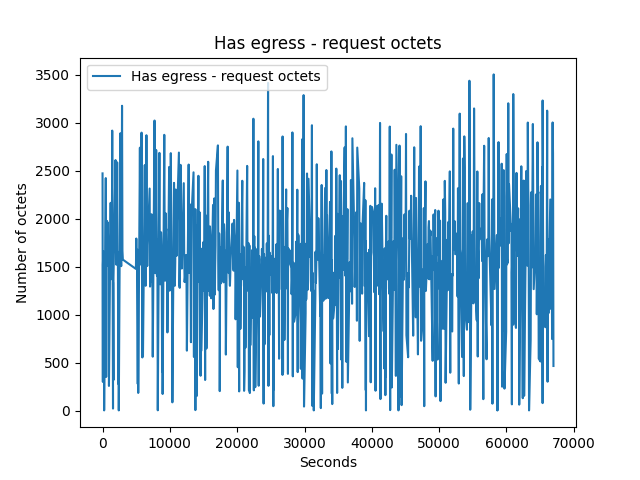
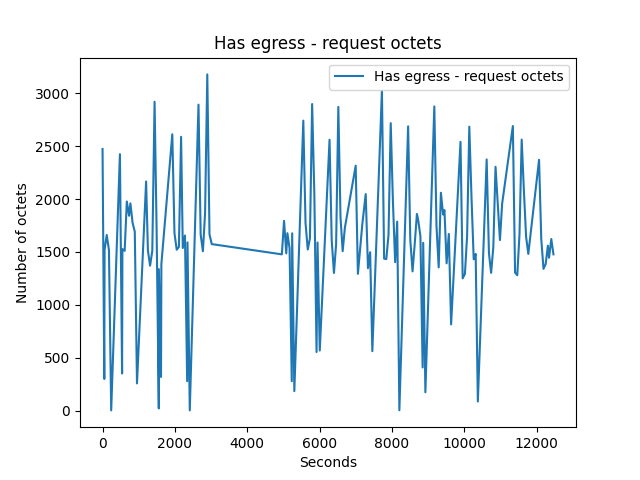
fix: use less data when creating graphs

diff --git a/1.5/graph.py b/1.5/graph.py
@@ -33,7 +33,7 @@ def formatLine(line):
     return line.strip().split()
 
 
-fileData = [formatLine(x) for x in fileStream.readlines()]
+fileData = [formatLine(x) for x in fileStream.readlines()][:1000]
 
 fileStream.close()
 
